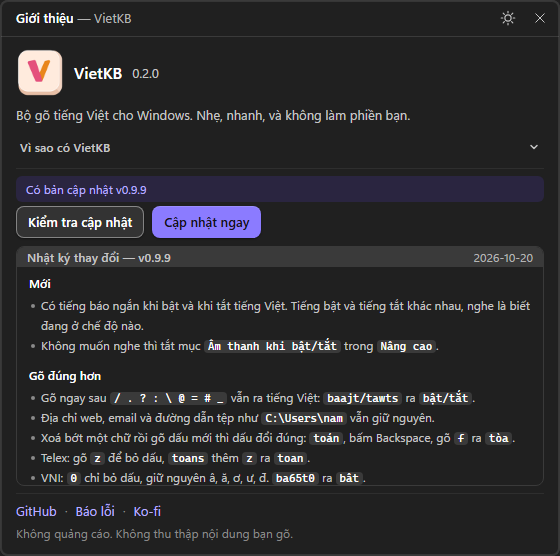
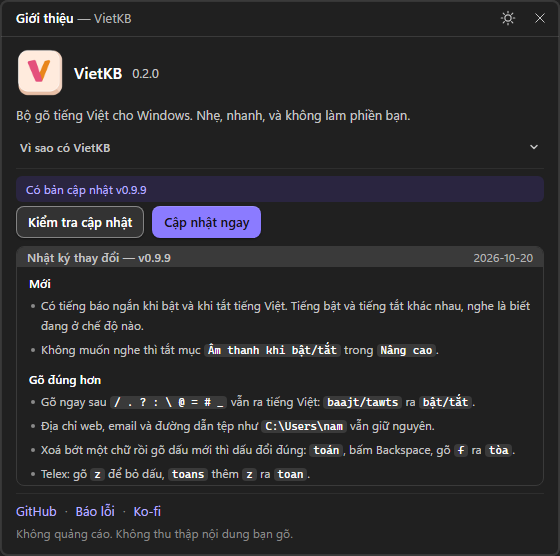
fix(ui): About changelog hides only real SHA256/Full Changelog lines, fixes spacing, a11y, and story-open min height

Changed region(s): [[0.0304, 0.6727, 0.9107, 0.8867], [0.0607, 0.6115, 0.7893, 0.6421]]

diff --git a/ui/src/screens/About.svelte b/ui/src/screens/About.svelte
@@ -70,23 +70,25 @@
 
       <section class="about-story" class:folded={!!info}>
         {#if info}
-          <button
-            type="button"
-            class="about-fold"
-            aria-expanded={storyOpen}
-            aria-controls="about-story-body"
-            onclick={() => (storyOpen = !storyOpen)}
-          >
-            <span>Vì sao có VietKB</span>
-            <svg class="about-chev" width="12" height="12" viewBox="0 0 12 12" aria-hidden="true">
-              <path d="M3 4.5 6 7.5 9 4.5" fill="none" stroke="currentColor" stroke-width="1.5" stroke-linecap="round" stroke-linejoin="round" />
-            </svg>
-          </button>
+          <h2 class="fold-h">
+            <button
+              type="button"
+              class="about-fold"
+              aria-expanded={storyOpen}
+              aria-controls="about-story-body"
+              onclick={() => (storyOpen = !storyOpen)}
+            >
+              <span>Vì sao có VietKB</span>
+              <svg class="about-chev" width="12" height="12" viewBox="0 0 12 12" aria-hidden="true">
+                <path d="M3 4.5 6 7.5 9 4.5" fill="none" stroke="currentColor" stroke-width="1.5" stroke-linecap="round" stroke-linejoin="round" />
+              </svg>
+            </button>
+          </h2>
         {:else}
           <h2>Vì sao có VietKB</h2>
         {/if}
-        {#if showStory}
-          <div id="about-story-body">          <p>
+        <div id="about-story-body" hidden={!showStory}>
+          <p>
             Những bộ gõ đang có vẫn gõ đúng, nhưng mang theo cả một thời phần mềm cũ: bảng mã 8-bit,
             hàng chục tuỳ chọn, nhiều tab.
           </p>
@@ -100,13 +102,12 @@
           </p>
 
           <p class="about-close">Một bộ gõ tốt là bộ gõ bạn không phải nghĩ tới.</p>
-          </div>
-        {/if}
+        </div>
       </section>
 
       <div class="about-div"></div>
 
-      <section class="about-update">
+      <section class="about-update" class:story-open={showStory}>
         <p class="about-status" data-tone={tone} role="status">{statusText}</p>
 
         <div class="about-actions">

diff --git a/ui/src/lib/changelog.ts b/ui/src/lib/changelog.ts
@@ -18,11 +18,14 @@ function isShaLine(line: string): boolean {
   const plain = trimmed.replace(/[`*]/g, "");
   const at = plain.indexOf(":");
   if (at < 0) return false;
-  return plain.slice(0, at).trim().toLowerCase() === "sha256";
+  if (plain.slice(0, at).trim().toLowerCase() !== "sha256") return false;
+  const hex = plain.slice(at + 1).trim().replace(/^["' ]+|["' ]+$/g, "");
+  return /^[0-9a-f]{64}$/i.test(hex);
 }
 
 function isFullChangelogLine(line: string): boolean {
-  return /^\**\s*full changelog\s*\**\s*:/i.test(line.trim());
+  const plain = line.trim().replace(/^[*\-# ]+/, "").replace(/\*/g, "").trim();
+  return /^full changelog\s*:/i.test(plain);
 }
 
 export function parseInline(src: string): Inline[] {

diff --git a/ui/src/styles/v4.css b/ui/src/styles/v4.css
@@ -467,6 +467,15 @@
 .about-story.folded {
   margin-top: 8px;
 }
+.about-story h2.fold-h {
+  margin: 0;
+}
+.about-story [hidden] {
+  display: none;
+}
+.about-update.story-open .about-changelog {
+  min-height: 120px;
+}
 .about-story.folded > div {
   padding: 0 4px 4px;
 }
@@ -560,12 +569,11 @@
   outline: 2px solid var(--acc-text);
   outline-offset: -2px;
 }
-.about-cl-body p,
-.about-cl-body h3 {
+.about-cl-body :where(p, h3) {
   margin: 0;
 }
 .cl-h {
-  margin-top: 12px !important;
+  margin-top: 12px;
   font: 600 12px/16px var(--ui);
   color: var(--t1);
 }
@@ -574,7 +582,7 @@
   color: var(--t2);
 }
 .cl-h:first-child {
-  margin-top: 0 !important;
+  margin-top: 0;
 }
 .cl-h + .cl-li,
 .cl-h + .cl-p {
